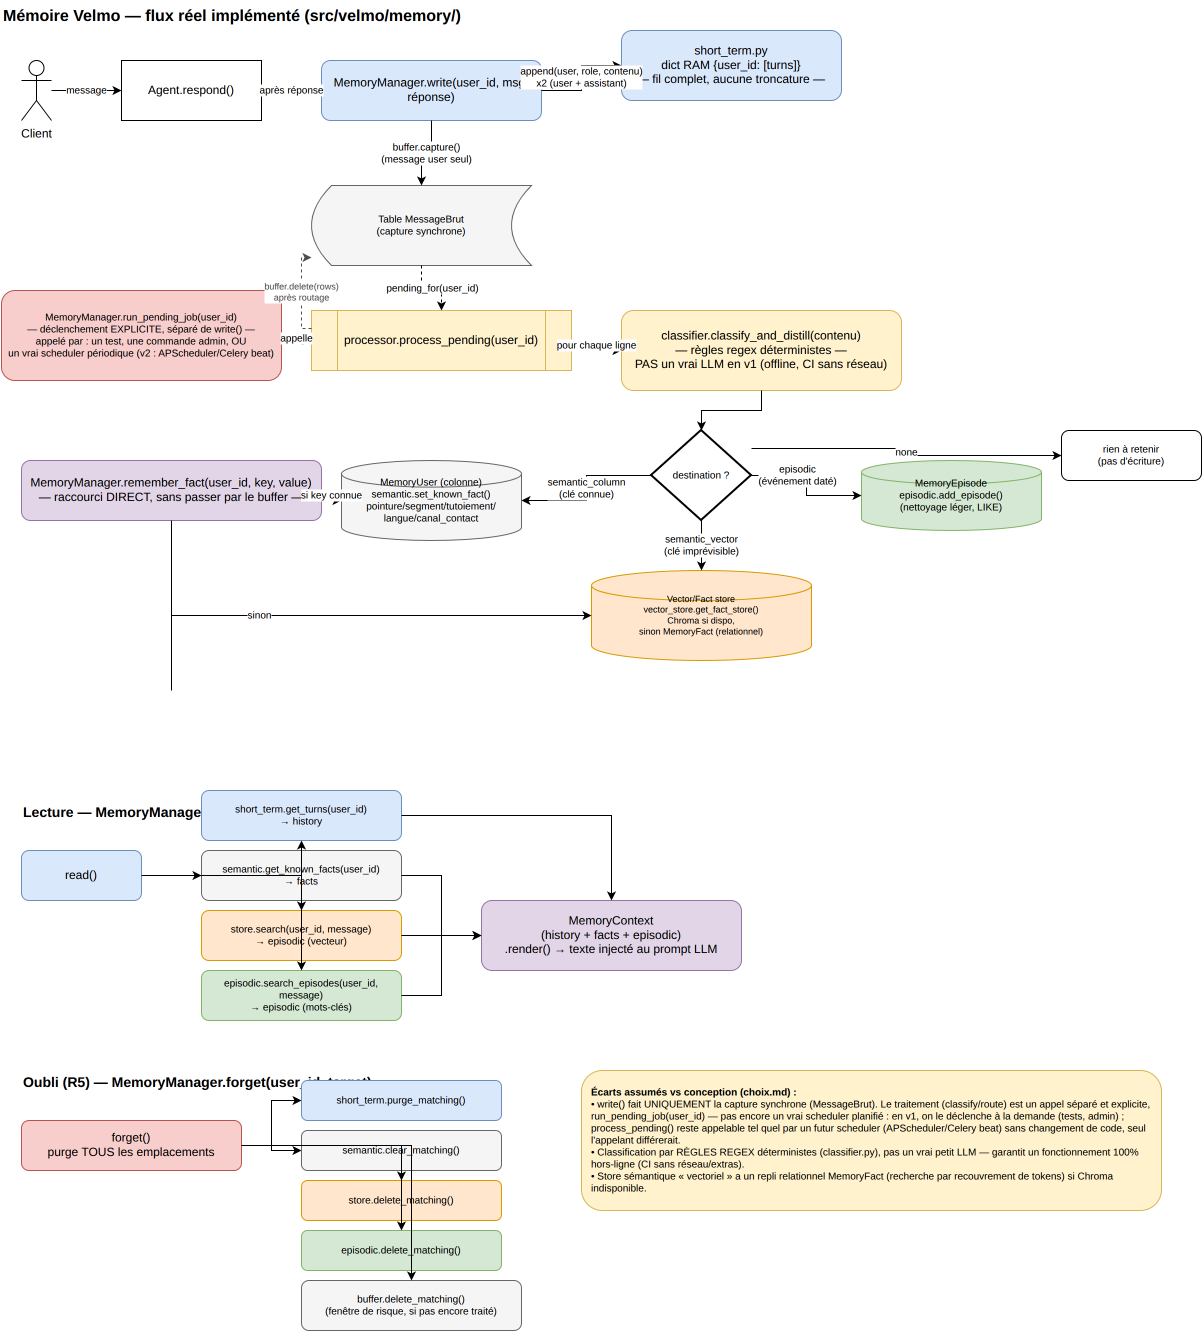
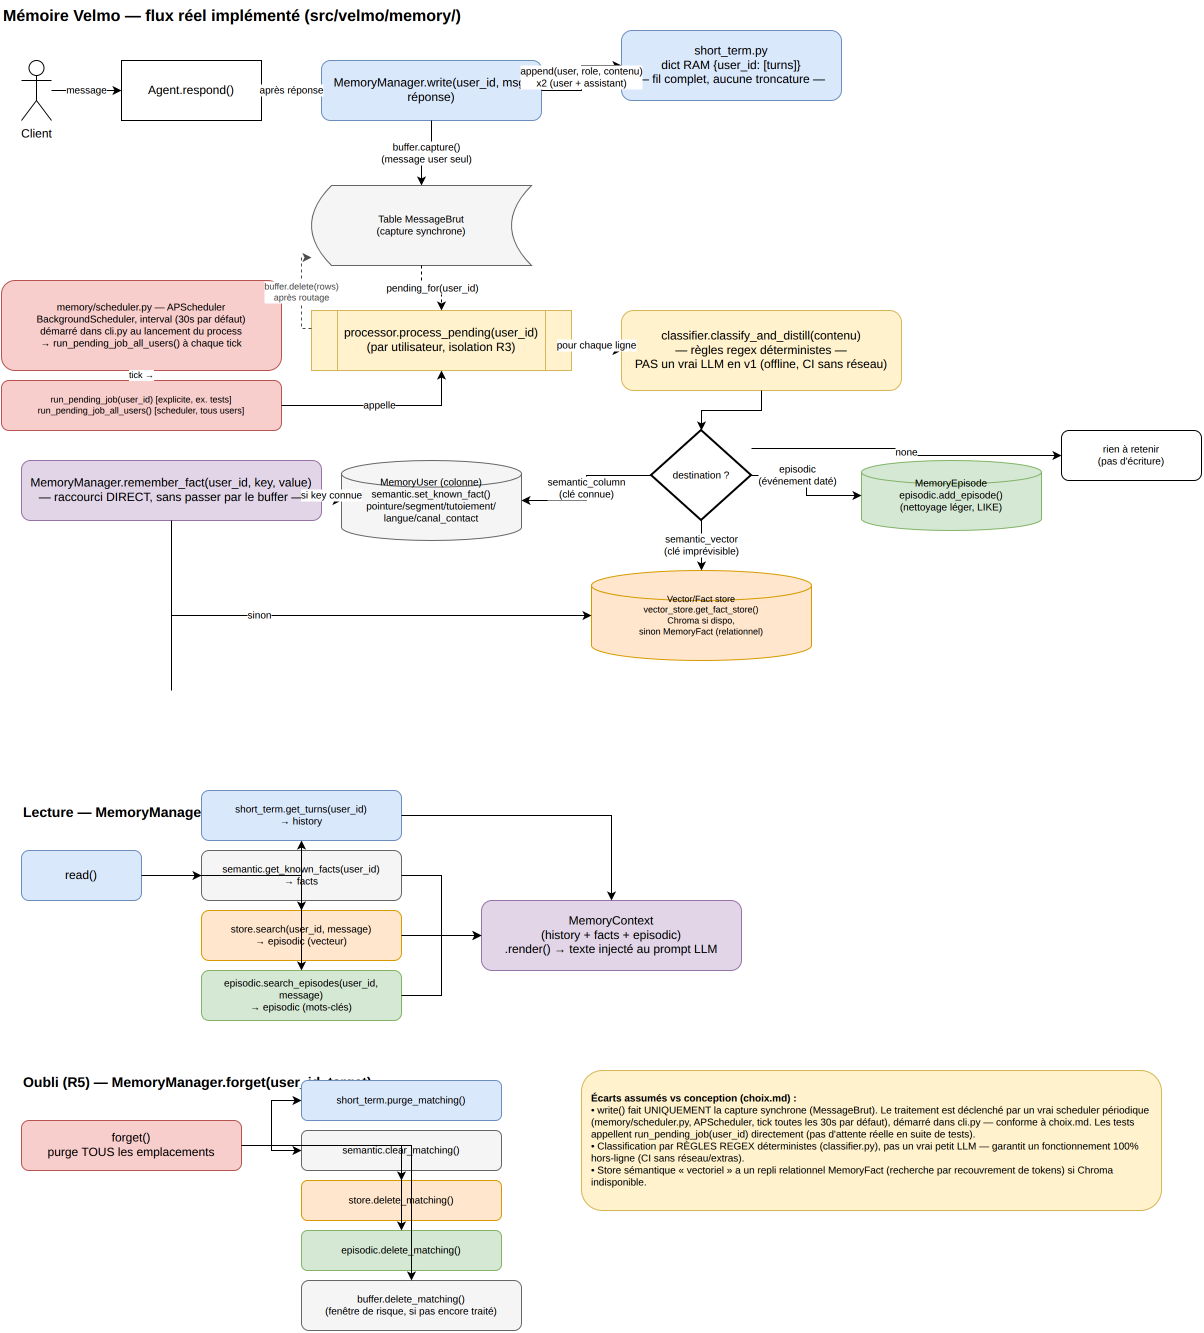
Add real periodic scheduler (APScheduler) for memory processing.
memory/scheduler.py starts a BackgroundScheduler (default 30s interval)
that calls MemoryManager.run_pending_job_all_users() — the new
all-users variant of run_pending_job, added because a real periodic
job doesn't know in advance which user_id has pending messages; it
scans buffer.pending_user_ids() and processes each user separately
(isolation R3, no cross-user batching).

Wired into cli.py: started alongside the agent, shut down on exit.
This closes the gap from the previous commit, where run_pending_job
existed but nothing actually called it on a schedule.

apscheduler added as a base dependency (not optional) — no heavy/
network dependency, keeps lint-and-unit CI working without extras.

flux_reel.drawio/.png updated: the scheduler is now shown as the real
trigger for run_pending_job_all_users(), matching choix.md's periodic-
processing design more closely (tests still call run_pending_job
directly rather than waiting on the real interval).

Test: 4/4 memory acceptance tests pass, business suite unaffected,
manual scheduler start/tick/shutdown verified.

Changed region(s): [[0.4917, 0.7997, 0.9527, 0.892], [0.0, 0.1845, 0.2458, 0.3383], [0.2766, 0.2461, 0.461, 0.2768]]

diff --git a/src/velmo/memory/scheduler.py b/src/velmo/memory/scheduler.py
@@ -1,0 +1,41 @@
+"""Scheduler périodique (APScheduler) déclenchant le traitement de la mémoire.
+
+Point d'entrée prod pour le découplage capture/traitement décrit dans
+`conception/memoire/choix.md` : capture synchrone dans `write()`, traitement
+asynchrone via ce job, exécuté à intervalle fixe plutôt que par lot de taille
+fixe (aucun reliquat possible, cf. le document de conception).
+
+Démarré explicitement par le process hôte (CLI, futur serveur) — pas activé
+par défaut à l'import de `velmo.memory`, pour ne pas surprendre les tests.
+"""
+
+from __future__ import annotations
+
+import logging
+
+from apscheduler.schedulers.background import BackgroundScheduler
+
+from . import MemoryManager
+
+logger = logging.getLogger(__name__)
+
+
+def start(*, interval_seconds: int = 30) -> BackgroundScheduler:
+    """Démarre le job périodique en tâche de fond et renvoie le scheduler.
+
+    Le scheduler tourne dans un thread du process courant (pas de nouveau
+    service Docker) : adapté au conteneur `app` déjà persistant. Appeler
+    `.shutdown()` sur l'objet renvoyé pour l'arrêter proprement.
+    """
+    scheduler = BackgroundScheduler()
+
+    def _tick() -> None:
+        mm = MemoryManager()
+        try:
+            mm.run_pending_job_all_users()
+        except Exception:
+            logger.exception("Échec du traitement mémoire périodique")
+
+    scheduler.add_job(_tick, "interval", seconds=interval_seconds, id="memory_processing")
+    scheduler.start()
+    return scheduler

diff --git a/src/velmo/cli.py b/src/velmo/cli.py
@@ -7,6 +7,7 @@ import argparse
 from dotenv import load_dotenv
 
 from .agent import build_default_agent
+from .memory import scheduler as memory_scheduler
 
 
 def main() -> None:
@@ -16,16 +17,20 @@ def main() -> None:
     args = parser.parse_args()
 
     agent = build_default_agent()
+    job = memory_scheduler.start()
     print(f"Velmo 2.0 prêt (client {args.user}). Posez votre question (Ctrl+C pour quitter).")
-    while True:
-        try:
-            message = input("\nVous : ").strip()
-            if not message:
-                continue
-            print(f"\nVelmo : {agent.respond(args.user, message)}")
-        except (KeyboardInterrupt, EOFError):
-            print("\nÀ bientôt !")
-            break
+    try:
+        while True:
+            try:
+                message = input("\nVous : ").strip()
+                if not message:
+                    continue
+                print(f"\nVelmo : {agent.respond(args.user, message)}")
+            except (KeyboardInterrupt, EOFError):
+                print("\nÀ bientôt !")
+                break
+    finally:
+        job.shutdown()
 
 
 if __name__ == "__main__":

diff --git a/src/velmo/memory/__init__.py b/src/velmo/memory/__init__.py
@@ -85,6 +85,17 @@ class MemoryManager:
         """
         process_pending(self._session, user_id)
 
+    def run_pending_job_all_users(self) -> None:
+        """Traite le tampon en attente pour tous les utilisateurs distincts.
+
+        Point d'entrée appelé par le scheduler périodique (`memory/scheduler.py`) :
+        contrairement à `run_pending_job`, ne cible pas un `user_id` précis — il
+        balaie tout `MessageBrut`, mais traite chaque utilisateur séparément
+        (isolation R3, aucun mélange de contenu entre deux clients dans un même appel).
+        """
+        for user_id in buffer.pending_user_ids(self._session):
+            process_pending(self._session, user_id)
+
     def remember_fact(self, user_id: str, key: str, value: str) -> None:
         """Persiste un fait durable sur l'utilisateur (écriture directe, sans passer par le tampon)."""
         if key in semantic.KNOWN_KEYS:

diff --git a/src/velmo/memory/buffer.py b/src/velmo/memory/buffer.py
@@ -31,6 +31,12 @@ def pending_for(session, user_id: str) -> list[MessageBrut]:
     )
 
 
+def pending_user_ids(session) -> list[str]:
+    """Liste les `user_id` distincts ayant au moins un message en attente."""
+    rows = session.execute(select(MessageBrut.user_id).distinct()).all()
+    return [r[0] for r in rows]
+
+
 def delete(session, rows: list[MessageBrut]) -> None:
     for row in rows:
         session.delete(row)
